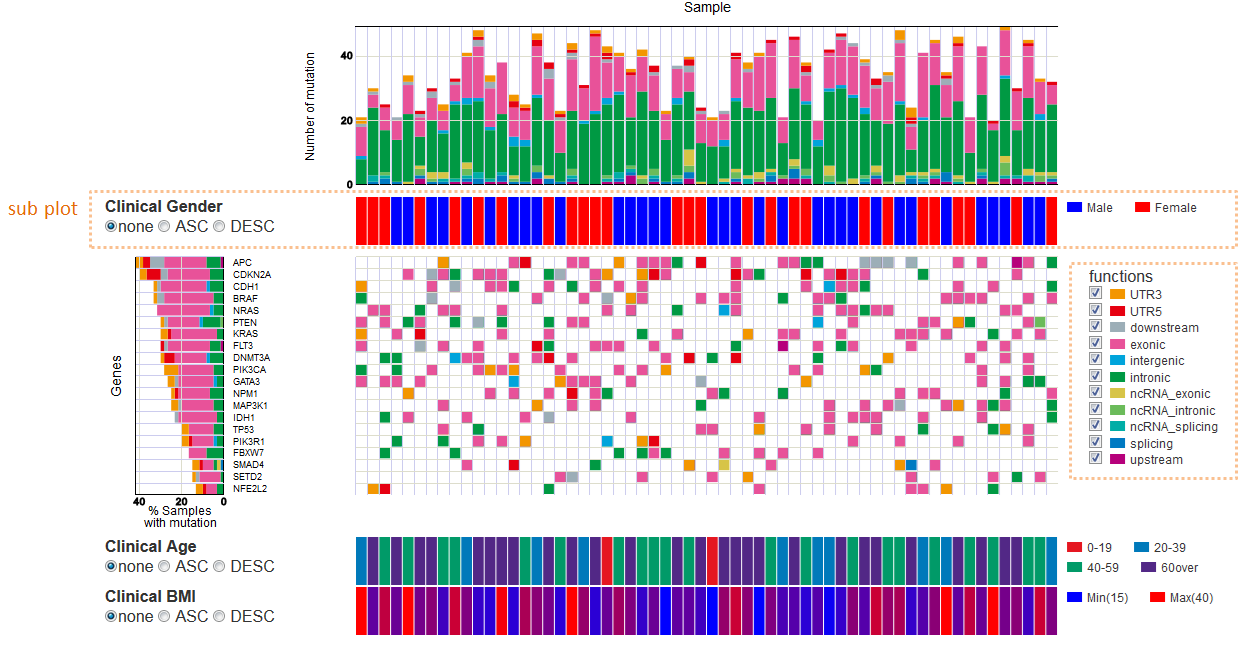
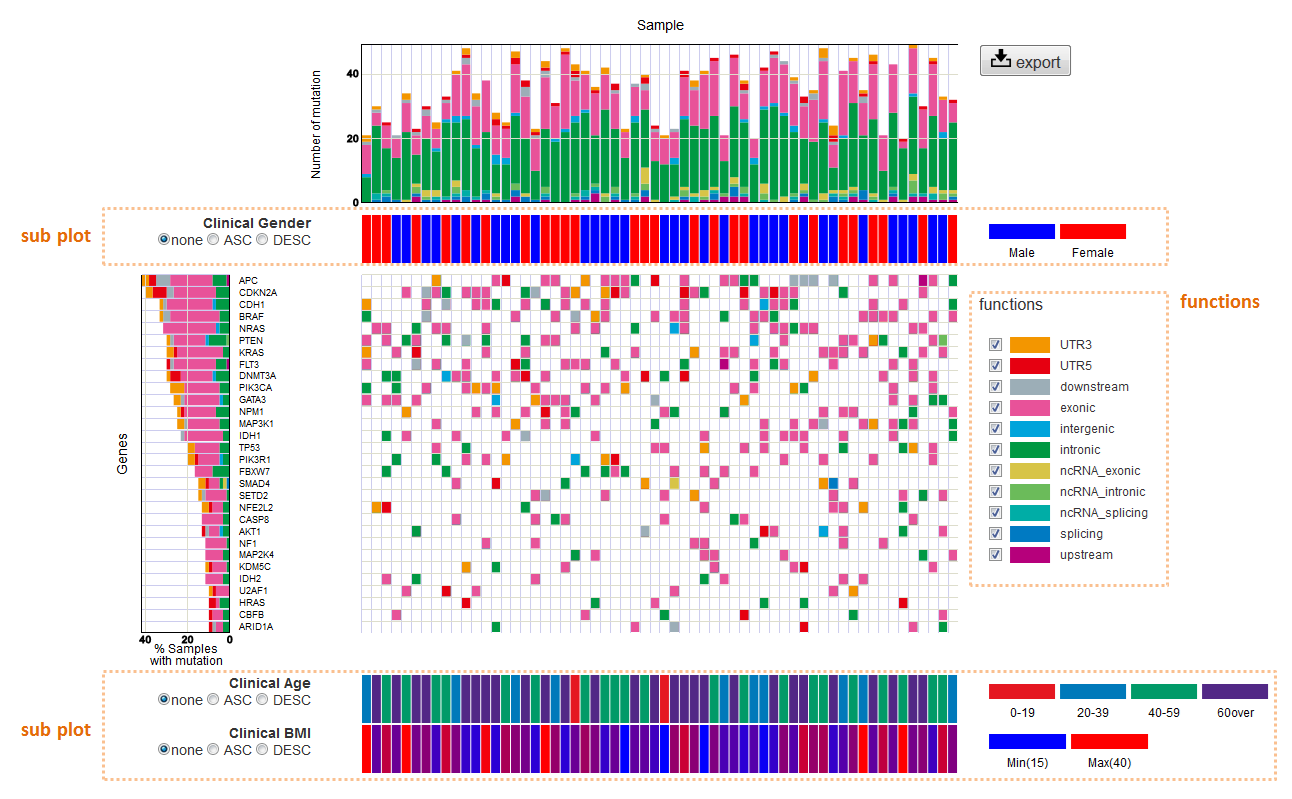
paplot v0.4.0

diff --git a/config_mut.rst b/config_mut.rst
@@ -1,0 +1,177 @@
+************************************************
+Config 記述方法(mutation-matrix)
+************************************************
+
+-----------------------------
+列と設定の対応
+-----------------------------
+
+=========================  =============  ==========  =============================
+name                       input type     required    description
+=========================  =============  ==========  =============================
+col_func                   text           o           mutation type
+col_gene                   text           o           gene name
+col_opt_chr                text           ×           chromosome
+col_opt_start              numeric        ×           開始位置
+col_opt_end                numeric        ×           終了位置
+col_opt_ref                text           ×           リファレンスの塩基配列
+col_opt_alt                text           ×           対象の塩基配列
+col_opt_id                 text           x           サンプルを識別できる名称
+=========================  =============  ==========  =============================
+
+| 列の指定方法方法については、 :ref:`列の指定方法<column>` を参照してください。
+| suffixとIDの指定方法および、サンプル名の指定方法については、 :ref:`suffixとID<suffix>` を参照してください。
+| 
+
+----------------------------------------------------------
+ポップアップウィンドウの表示内容
+----------------------------------------------------------
+
+| 記載方法は :ref:`ユーザ定義フォーマット<user_format>` を参照してください。
+| 
+| 表示箇所ごとに6種類設定しますが、書き方は同一です。
+| データ列とは別に以下も特殊キーワードとして使用することができます。
+|
+
+:{#number_id}:      サンプル数
+:{#number_gene}:    遺伝子数
+:{#number_mutaion}: mutation数(同一サンプルが同一遺伝子で複数回検出されても1としてカウントする)
+:{#sum_mutaion}:    mutation総検出数
+:{#item_value}:     積み上げグラフの1項目の値
+:{#sum_item_value}: 積み上げグラフの合計値
+
+| サンプル数以外の5つの値はconfigファイルにより除外されたmutationを除いた数です。
+| Genomonでは、functionが次の場合のmutationを除外していますので、全検出結果からこれらの数を引いた値になります。
+|   nouse_funcs = _blank_,unknown,synonymous_SNV
+|
+
+**デフォルトでの設定内容と表示との対応**
+
+.. code-block:: cfg
+
+  # グリッド - タイトル
+  tooltip_format_checker_title1 = ID:{ID}, gene:{gene}, {#sum_item_value}
+  
+  # グリッド - funcごと
+  tooltip_format_checker_partial = type[{func}], {chr}:{start}:{end}, [{ref} -----> {alt}]
+  
+  # 遺伝子グラフ - タイトル
+  tooltip_format_gene_title = gene:{gene}, {#sum_item_value}
+  
+  # 遺伝子グラフ - funcごと
+  tooltip_format_gene_partial = func:{func}, {#item_value}
+  
+  # サンプルグラフ - funcごと
+  tooltip_format_id_title = ID:{id}, {#sum_item_value}
+  
+  # サンプルグラフfuncごと
+  tooltip_format_id_partial = func:{func}, {#item_value}
+
+.. image:: image/conf_mut4.PNG
+  :scale: 100%
+
+-----------------------------
+サブプロットについて
+-----------------------------
+
+| mutation-matrixグラフでは解析結果とは別にサンプルに対する情報を表示することができます。
+| 
+| 表示場所は2つあり、type1はサンプルグラフの下に、type2は最後に表示します。
+| 
+| type1を表示する場合はセクション名を[mut_subplot_type1_*]とします。
+| type2を表示する場合はセクション名を[mut_subplot_type2_*]とします。
+| 
+| ``*`` には1から始まる連番を入れてください。1から順に表示します。
+| 
+
+.. image:: image/conf_mut1.PNG
+  :scale: 100%
+
+.. code-block:: cfg
+  :linenos:
+  
+  # mut_subplot_type1_1
+  [mut_subplot_type1_1]
+  
+  # ファイルのパス
+  path = /path/to/file1
+  
+  ###########################
+  # ファイルフォーマット
+  
+  # ファイルのデータ区切り
+  sept = ,
+  
+  # 先頭1行がヘッダかどうか
+  header = True
+  
+  # コメント行
+  comment = #
+  
+  # 表示データの列
+  col_value = average_depth
+  
+  # id 列（main plotと紐づけられること）
+  col_ID = id
+  
+  ###########################
+  # サブプロットのフォーマット
+  
+  # サブプロットのタイトル
+  title = bam's average depth
+  
+  # 表示形式
+  # fix, range, gradientから選択
+  mode = gradient
+  
+  # 凡例のフォーマット
+  # 値:表示文字列:セルの色を各値ごとに記入する。セルの色は省略可能
+  #
+  # mode=fixの場合
+  # name_set = 0:Male:blue, 1:Female:red, 2:Unknown:gray
+  # 
+  # mode=fixの場合、値には範囲開始の値を入れる
+  # name_set = 0:0-19, 20:20-39, 40:40-59, 60:60over
+  # 
+  # mode = gradientの場合、最初と最後の値を入れる。MIN/MAXを使用すると、データから自動的に設定する
+  # 自動設定の場合
+  # name_set = MIN:min, MAX:max
+  # 手動設定の場合
+  # name_set = 0:min (0), 40:max (40)
+  name_set = MIN:min, MAX:max
+  
+  # mut_subplot_type2_1
+  [mut_subplot_type2_1]
+  title = Clinical Gender
+  path = /path/to/file2
+  sept = ,
+  header = True
+  comment = 
+  col_value = gender
+  col_ID = barcode
+  mode = fix
+  name_set = 0:Male:blue, 1:Female:red, 2:Unknown:gray
+  
+  #mut_subplot_type2_2
+  [mut_subplot_type2_2]
+  title = Clinical Age
+  path = /path/to/file3
+  sept = ,
+  header = True
+  comment = 
+  col_value = age
+  col_ID = barcode
+  mode = range
+  name_set = 0:0-19, 20:20-39, 40:40-59, 60:60over
+
+titleとnameset
+--------------------------
+
+.. image:: image/conf_mut2.PNG
+  :scale: 100%
+
+表示モードの違い
+----------------------------
+
+.. image:: image/conf_mut3.PNG
+  :scale: 100%

diff --git a/config_sv.rst b/config_sv.rst
@@ -1,0 +1,129 @@
+*******************************
+Config 記述方法(SV)
+*******************************
+
+列と設定の対応
+-----------------------------
+
+====================  ===============  ==========  =============================
+name                  input type       required    description
+====================  ===============  ==========  =============================
+col_chr1              text             o           chromosome of break point 1
+col_break1            numeric          o           position of break point 1
+col_chr2              text             o           chromosome of break point 2
+col_break2            numeric          o           position of break point 2
+col_opt_ID            text             x           サンプルを識別できる名称
+col_opt_dir1          text             x           direction of break point 1
+col_opt_dir2          text             x           direction of break point 2
+col_opt_type          text             x           type of variation
+col_opt_gene_name1    text             x           gene name of break point 1
+col_opt_gene_name2    text             x           gene name of break point 2
+col_opt_group         text             ×           grouping of mutaions
+====================  ===============  ==========  =============================
+
+.. note::
+  
+  col_opt_groupはSVのグルーピングに使用します。
+  
+  未指定の場合、intra/inter chromosomeでグルーピングします。
+  
+  列を指定した場合、以下オプションによりさらに表示内容を設定することができます。
+  
+   - limited_group 使用するgroupを限定する
+   - nouse_group   使用しないgroupを指定する
+   - group_colors  groupの色を指定する
+  
+  設定例
+  
+  .. code-block:: cfg
+    
+    limited_group = stopgain,frameshift_deletion,frameshift_insertion
+    nouse_group = _blank_,unknown,synonymous_SNV
+    group_colors = stopgain:#E85299,frameshift_deletion:#F39600,frameshift_insertion:#E60011
+
+.. note::
+  
+  任意設定の5項目はポップアップでの詳細表示にのみ使用されます。
+  
+   - col_opt_dir1
+   - col_opt_dir2
+   - col_opt_gene_name1
+   - col_opt_gene_name2
+   - col_opt_type
+   
+   .. image:: image/option_sv.PNG
+     :scale: 100%
+
+| 列の指定方法方法については、 :ref:`列の指定方法<column>` を参照してください。
+| suffixとIDの指定方法および、サンプル名の指定方法については、 :ref:`suffixとID<suffix>` を参照してください。
+| 
+
+
+SVで表示するchromosomeを限定する
+---------------------------------
+
+configファイルで次の項目を編集してください。
+
+.. code-block:: cfg
+
+  [sv]
+  # 使用するchromosomes (,で区切る)
+  # default
+  # use_chrs = 1,2,3,4,5,6,7,8,9,10,11,12,13,14,15,16,17,18,19,20,21,22,X,Y
+  
+  # chromosome 1,5,7を使用する場合
+  use_chrs = 1,5,7
+
+編集したconfigファイルは次のようにしてコマンドから指定します。
+
+``pa_plot {input files} {output directory} {title} --config_file {config file}``
+
+
+SVでヒト以外のゲノムを使用する
+-------------------------------
+
+genomeサイズが入力されたファイルが必要です。
+
+先頭列にchromosome名、2列目にサイズをカンマ ``,`` 区切りで入力してください。
+
+.. code-block:: cfg
+  
+  1,249250621
+  2,243199373
+  3,198022430
+  7,159138663
+  8,146364022
+  X,141213431
+  Y,135534747
+  9_gl000201_random,36148
+  11_gl000202_random,40103
+  17_gl000204_random,81310
+  17_gl000205_random,174588
+  Un_gl000214,137718
+
+chromosome名は分析したいファイルのChr1, Chr2で使用されている名称と同じでなければなりません。
+
+.. image:: image/qa_genome_size.PNG
+
+configファイルで用意したゲノムサイズのファイルを指定してください。
+
+.. code-block:: cfg
+
+  [genome]
+  # ゲノムサイズのファイル（CSV形式）（デフォルトはhg19, installディレクトリ配下のgenomeディレクトリにあります）
+  #
+  # for example.
+  # (linux)
+  # path = ~/tmp/genome/hg19.csv
+  # (windows)
+  # path = C:\genome\hg19_part.csv
+  path = {ここにゲノムサイズのファイルのパスを指定する}
+
+
+ポップアップウィンドウの表示内容
+----------------------------------------
+
+| 記載方法は :ref:`ユーザ定義フォーマット<user_format>` を参照してください。
+| SVにはmutation-matrixのような特殊キーワードはありません。
+|
+

diff --git a/config_qc.rst b/config_qc.rst
@@ -1,0 +1,79 @@
+*******************************
+Config 記述方法(QC)
+*******************************
+
+列と設定の対応
+-----------------------------
+
+=========================  =============  ==========  =============================
+name                       input type     required    description
+=========================  =============  ==========  =============================
+col_opt_duplicate_reads    numeric        ×           number of total reads
+col_opt_mapped_reads       numeric        ×           number of mapped reads
+col_opt_total_reads        numeric        ×           number of duplicate reads
+col_opt_average_depth      numeric        ×           mean of insert size
+col_opt_mean_insert_size   numeric        ×           average of depth
+col_opt_ratio_2x           numeric        ×           number of read_length_r1
+col_opt_ratio_10x          numeric        ×           number of read_length_r2
+col_opt_ratio_20x          0.0～1.0       ×           coverage (depth=2)
+col_opt_ratio_30x          0.0～1.0       ×           coverage (depth=10)
+col_opt_read_length_r1     0.0～1.0       ×           coverage (depth=20)
+col_opt_read_length_r2     0.0～1.0       ×           coverage (depth=30)
+col_opt_id                 text           x           サンプルを識別できる名称
+=========================  =============  ==========  =============================
+
+| 列の指定方法方法については、 :ref:`列の指定方法<column>` を参照してください。
+| suffixとIDの指定方法および、サンプル名の指定方法については、 :ref:`suffixとID<suffix>` を参照してください。
+| 
+
+
+ユーザ定義グラフ
+-----------------------------
+
+| QCではすべてのグラフがユーザ定義になっています。
+| ※ 積み上げグラフのみです。それ以外のグラフにすることはできません。
+|
+| configファイルの ``[qc_chart_*]``  というセクションに必要事項を記入します。
+| [qc_chart_brush] (領域を選択できるグラフ) を先頭に[qc_chart_1],[qc_chart_2],[qc_chart_3] の順番に表示します。
+| 必要な数だけ [qc_chart_*] セクションを増やすことができます。
+|
+| exampleでの設定例は次のようになっています。
+
+.. image:: image/conf_qc1.PNG
+  :scale: 100%
+
+** [qc_chart_*] 各セクションの設定内容 **
+
+| 各セクションでは次のオプションを設定します。
+|
+
+:title: グラフのタイトル
+
+:title_y: y軸のタイトル
+
+:stack: 積み上げ要素。複数ある場合は積み上げる順にstack1, stack2, ... と連番に指定します。{ } 内にキーワードを設定します。キーワードについては :ref:`ユーザ定義フォーマット<user_format>` を参照してください。
+
+:name_set: 積み上げ要素の凡例名と色。色は省略可能。省略した場合、デフォルト値を上から順番に使用します。
+
+:tooltip_format: mouse over で表示されるポップアップウィンドウのフォーマット。複数行の場合は上から順にtooltip_format1, tooltip_format2, ... と連番に指定します。記載方法は :ref:`ユーザ定義フォーマット<user_format>` を参照してください。
+
+
+.. image:: image/conf_qc2.PNG
+  :scale: 100%
+
+name_set(色指定あり)
+
+.. image:: image/conf_qc3.PNG
+  :scale: 100%
+
+name_set(色指定なし)
+
+.. image:: image/conf_qc4.PNG
+  :scale: 100%
+
+
+** デフォルト色 **
+
+.. image:: image/default_color.PNG
+  :scale: 100%
+
